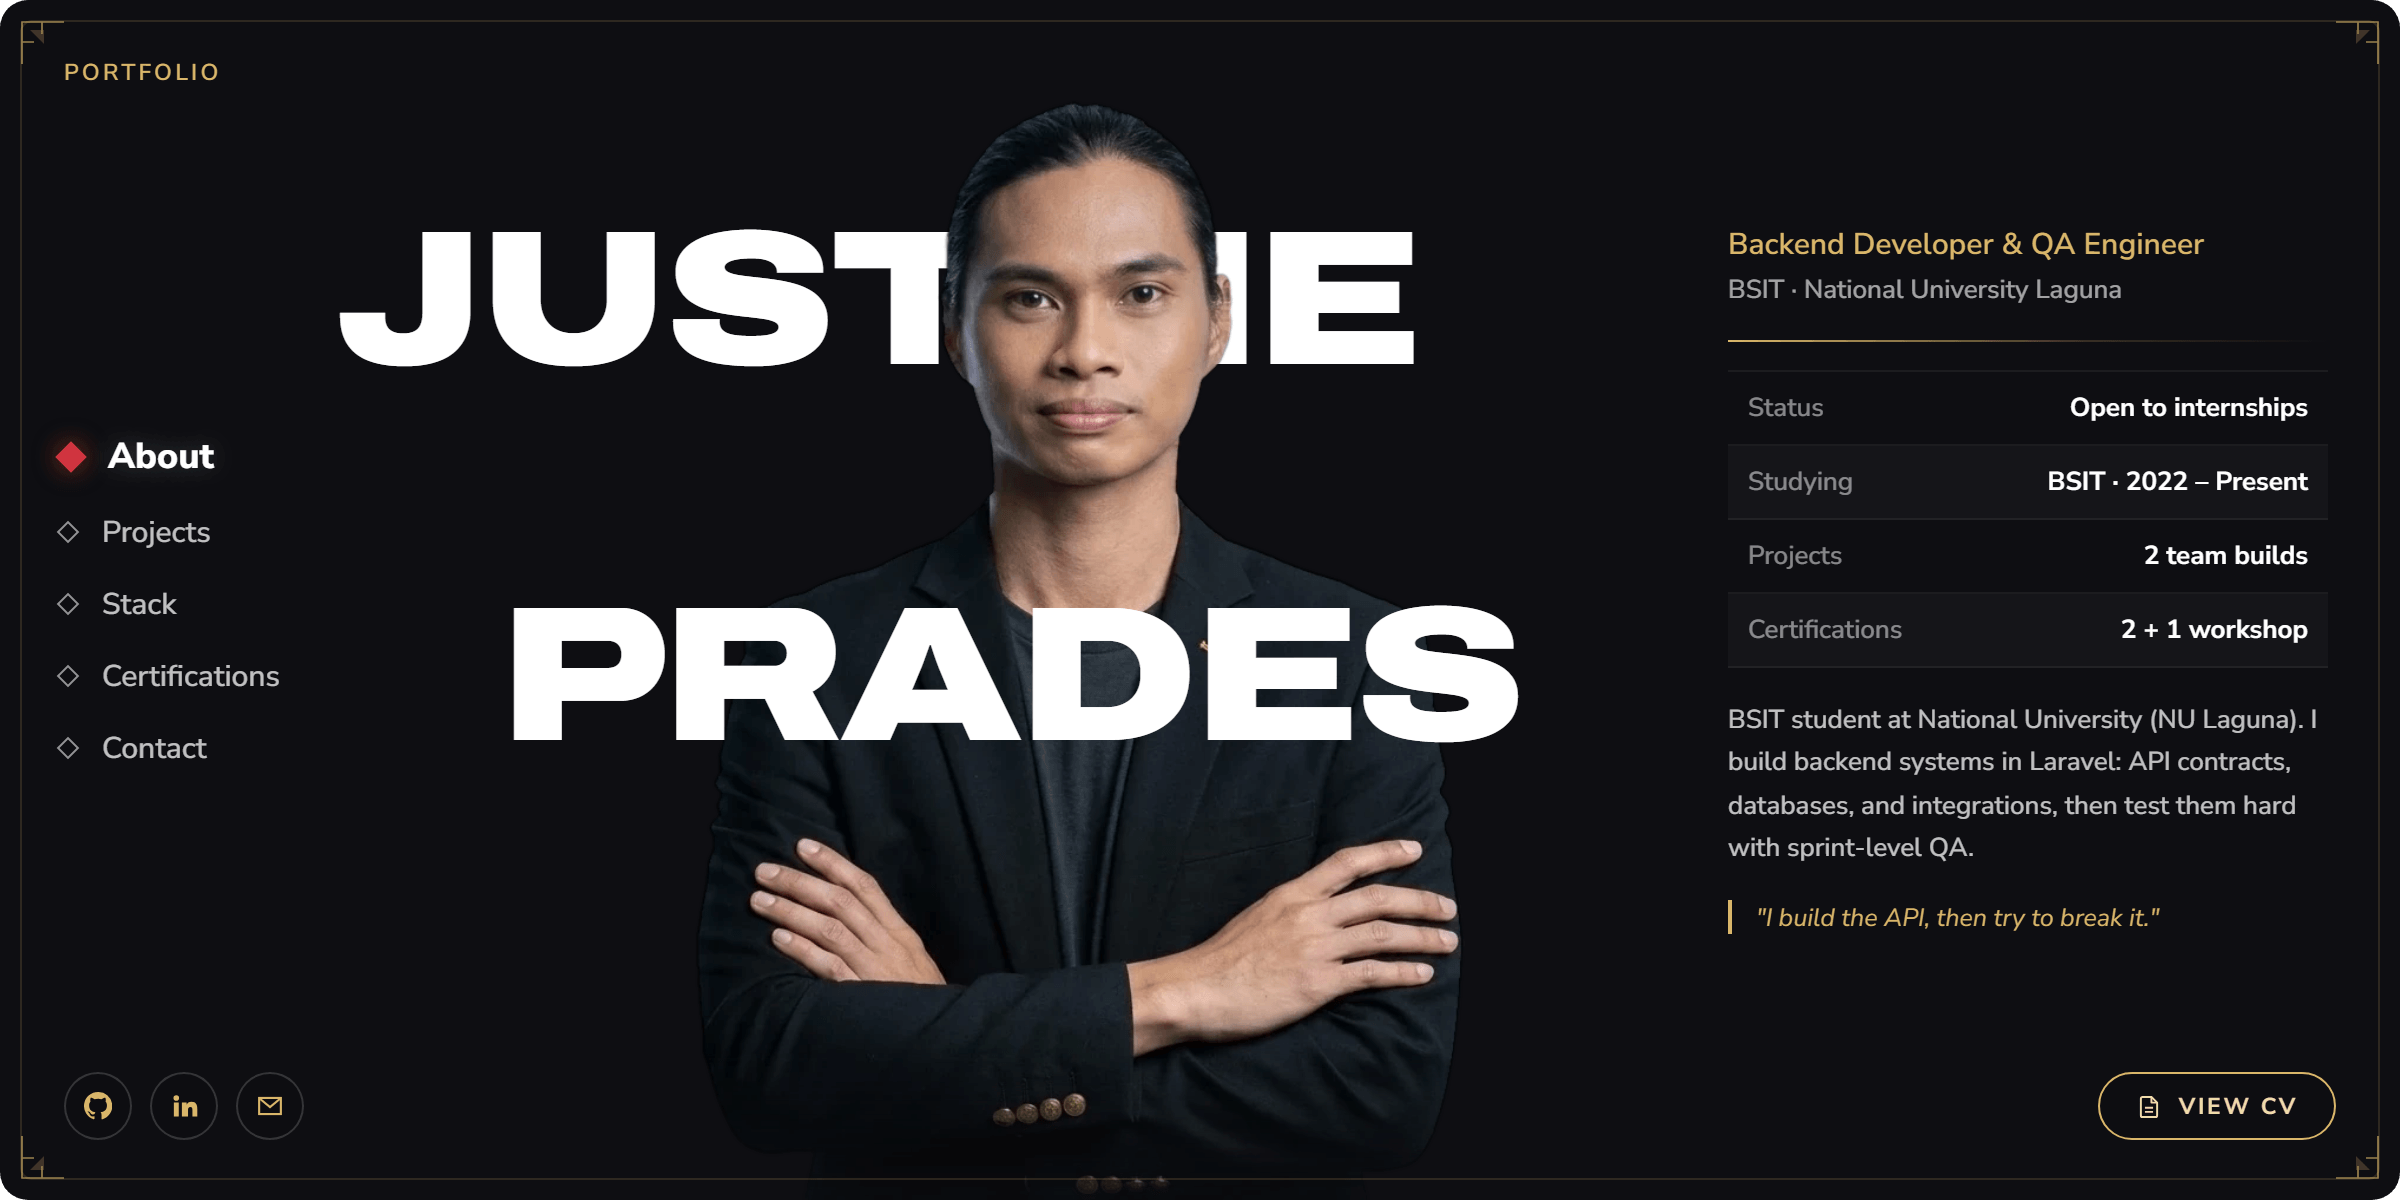
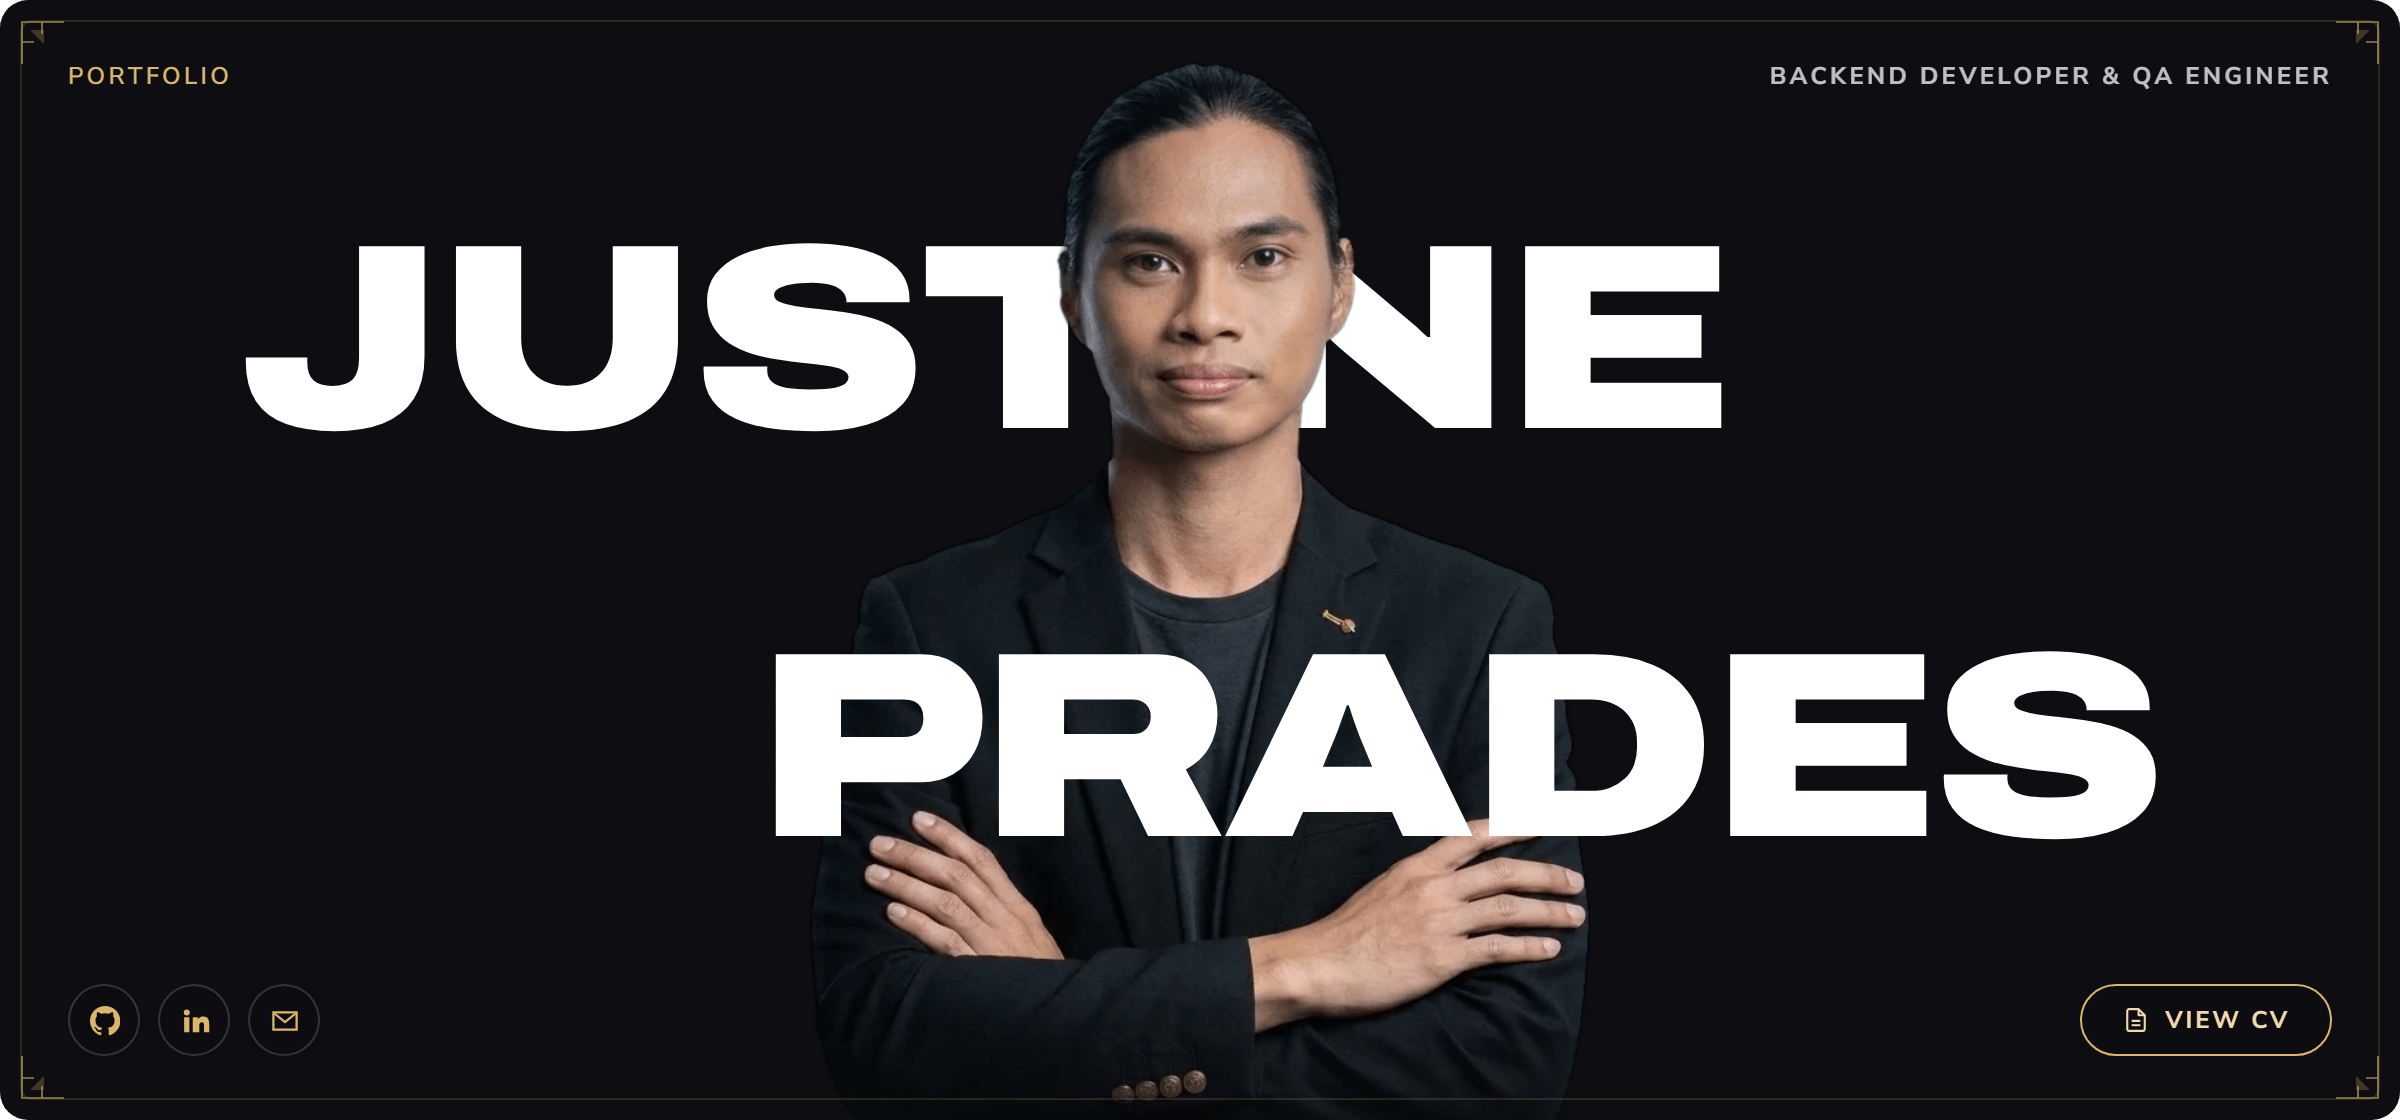
README: clickable top nav bar, About card from the info panel, simpler hero
The nav bar is cut into one image per item, each linking to an anchor above its
card, so About / Projects / Stack / Certifications / Contact scroll within the
README. The hero drops the side menu and info panel; the info is now the About
card. Stack no longer marks Backend with the red diamond.

diff --git a/src/hero.html b/src/hero.html
@@ -2,69 +2,44 @@
 <html lang="en">
 <head>
 <meta charset="utf-8" />
-<link href="https://fonts.googleapis.com/css2?family=Archivo:wdth,wght@125,900&family=Nunito+Sans:ital,wght@0,500;0,600;0,700;0,800;1,400&display=block" rel="stylesheet" />
+<link href="https://fonts.googleapis.com/css2?family=Archivo:wdth,wght@125,900&family=Nunito+Sans:wght@600;700&display=block" rel="stylesheet" />
 <style>
-  /* Mirrors the portfolio's opening screen (CharacterMenu.jsx), dark theme. */
-  :root { --bg: #0e0e12; --fg: #fff; --gold: #d9b66a; --gold-hi: #f0dcab; --accent: #d0353f; --text-2: rgba(255,255,255,.74); --hair: rgba(255,255,255,.06); }
+  /* The portfolio's opening screen without the menu and info panel: those are the nav bar and About card in the README. */
+  :root { --bg: #0e0e12; --fg: #fff; --gold: #d9b66a; --gold-hi: #f0dcab; --text-2: rgba(255,255,255,.74); }
   * { box-sizing: border-box; margin: 0; padding: 0; }
   html, body { background: transparent; }
-  .card { position: relative; width: 1200px; height: 600px; border-radius: 14px; overflow: hidden; background: var(--bg); font-family: "Nunito Sans", sans-serif; color: var(--text-2); }
+  .card { position: relative; width: 1200px; height: 560px; border-radius: 14px; overflow: hidden; background: var(--bg); font-family: "Nunito Sans", sans-serif; color: var(--text-2); }
   .frame { position: absolute; inset: 10px; border: 1px solid rgba(217,182,106,.16); border-radius: 6px; z-index: 6; }
   .corner { position: absolute; width: 40px; height: 40px; color: var(--gold); opacity: .7; }
   .corner svg { width: 100%; height: 100%; display: block; }
   .tl { top: -1px; left: -1px; } .tr { top: -1px; right: -1px; transform: scaleX(-1); }
   .bl { bottom: -1px; left: -1px; transform: scaleY(-1); } .br { bottom: -1px; right: -1px; transform: scale(-1); }
 
-  .brand { position: absolute; top: 28px; left: 32px; z-index: 6; font-size: 11.5px; font-weight: 600; letter-spacing: .14em; color: var(--gold); }
+  .brand { position: absolute; top: 30px; left: 34px; z-index: 6; font-size: 12px; font-weight: 600; letter-spacing: .14em; color: var(--gold); }
+  .role { position: absolute; top: 30px; right: 34px; z-index: 6; font-size: 12px; font-weight: 700; letter-spacing: .14em; text-transform: uppercase; color: var(--text-2); }
 
-  .nav { position: absolute; left: 30px; top: 50%; transform: translateY(-50%); z-index: 6; display: flex; flex-direction: column; gap: 16px; }
-  .nav span { display: flex; align-items: center; gap: 13px; font-size: 15px; font-weight: 500; color: var(--text-2); }
-  .nav i { width: 8px; height: 8px; border: 1.2px solid rgba(255,255,255,.55); transform: rotate(45deg); }
-  .nav .on { font-size: 18px; font-weight: 800; color: var(--fg); text-shadow: 0 0 14px rgba(255,255,255,.25); }
-  .nav .on i { width: 11px; height: 11px; background: var(--accent); border-color: var(--accent); box-shadow: 0 0 12px rgba(208,53,63,.7); }
+  .name { position: absolute; z-index: 1; font-family: "Archivo", sans-serif; font-weight: 900; font-stretch: 125%; font-size: 132px; line-height: .8; letter-spacing: -.02em; color: var(--fg); white-space: nowrap; }
+  .back { left: 120px; top: 118px; }
+  .front { right: 120px; top: 322px; z-index: 3; }
+  .photo { position: absolute; z-index: 2; bottom: -70px; left: 600px; transform: translateX(-50%); height: 600px;
+    -webkit-mask-image: linear-gradient(to bottom, #000 78%, transparent 96%); }
 
-  .name { position: absolute; z-index: 1; font-family: "Archivo", sans-serif; font-weight: 900; font-stretch: 125%; font-size: 96px; line-height: .8; letter-spacing: -.02em; color: var(--fg); white-space: nowrap; }
-  .back { left: 168px; top: 112px; }
-  .front { left: 250px; top: 300px; z-index: 3; }
-  .photo { position: absolute; z-index: 2; bottom: -40px; left: 540px; transform: translateX(-50%); height: 590px;
-    -webkit-mask-image: linear-gradient(to bottom, #000 80%, transparent 97%); }
-
-  .panel { position: absolute; z-index: 6; right: 36px; top: 112px; width: 300px; }
-  .role { font-size: 15px; font-weight: 600; color: var(--gold); }
-  .sub { margin-top: 4px; font-size: 13px; color: rgba(255,255,255,.62); }
-  .divider { height: 1px; margin: 16px 0 14px; background: linear-gradient(90deg, var(--gold), rgba(217,182,106,.2) 60%, transparent); }
-  .stats { border-top: 1px solid var(--hair); }
-  .stat { display: flex; justify-content: space-between; padding: 9px 10px; border-bottom: 1px solid var(--hair); font-size: 13px; }
-  .stat:nth-child(even) { background: rgba(255,255,255,.03); }
-  .stat span { color: rgba(255,255,255,.5); font-weight: 500; }
-  .stat b { color: var(--fg); font-weight: 700; }
-  .desc { margin-top: 16px; font-size: 13px; line-height: 1.65; }
-  .quote { margin-top: 14px; padding-left: 12px; border-left: 2px solid var(--gold); font-style: italic; font-size: 12.5px; color: var(--gold); }
-
-  .socials { position: absolute; z-index: 6; left: 32px; bottom: 30px; display: flex; gap: 9px; }
-  .socials span { width: 34px; height: 34px; border-radius: 50%; border: 1px solid rgba(255,255,255,.16); background: rgba(14,14,18,.8); display: grid; place-items: center; color: var(--gold); }
-  .socials svg { width: 14px; height: 14px; }
-  .cv { position: absolute; z-index: 6; right: 32px; bottom: 30px; display: inline-flex; align-items: center; gap: 8px; padding: 8px 18px; border-radius: 999px; border: 1px solid var(--gold);
-    background: rgba(14,14,18,.8); color: var(--gold-hi); font-size: 11.5px; font-weight: 700; letter-spacing: .12em; }
-  .cv svg { width: 13px; height: 13px; }
+  .socials { position: absolute; z-index: 6; left: 34px; bottom: 32px; display: flex; gap: 9px; }
+  .socials span { width: 36px; height: 36px; border-radius: 50%; border: 1px solid rgba(255,255,255,.16); background: rgba(14,14,18,.8); display: grid; place-items: center; color: var(--gold); }
+  .socials svg { width: 15px; height: 15px; }
+  .cv { position: absolute; z-index: 6; right: 34px; bottom: 32px; display: inline-flex; align-items: center; gap: 8px; padding: 9px 20px; border-radius: 999px; border: 1px solid var(--gold);
+    background: rgba(14,14,18,.8); color: var(--gold-hi); font-size: 12px; font-weight: 700; letter-spacing: .12em; }
+  .cv svg { width: 14px; height: 14px; }
 </style>
 </head>
 <body>
 <div class="card">
   <div class="frame">__CORNERS__</div>
   <div class="brand">PORTFOLIO</div>
-  <div class="nav"><span class="on"><i></i>About</span><span><i></i>Projects</span><span><i></i>Stack</span><span><i></i>Certifications</span><span><i></i>Contact</span></div>
+  <div class="role">Backend Developer &amp; QA Engineer</div>
   <div class="name back">JUSTINE</div>
   <img class="photo" src="__PHOTO__" alt="" />
   <div class="name front">PRADES</div>
-  <div class="panel">
-    <p class="role">Backend Developer &amp; QA Engineer</p>
-    <p class="sub">BSIT · National University Laguna</p>
-    <div class="divider"></div>
-    <div class="stats">__STATS__</div>
-    <p class="desc">__DESC__</p>
-    <p class="quote">"__QUOTE__"</p>
-  </div>
   <div class="socials"><span>__I_GITHUB__</span><span>__I_LINKEDIN__</span><span>__I_MAIL__</span></div>
   <div class="cv">__I_FILE__VIEW CV</div>
 </div>

diff --git a/src/nav.html b/src/nav.html
@@ -1,0 +1,31 @@
+<!doctype html>
+<html lang="en">
+<head>
+<meta charset="utf-8" />
+<link href="https://fonts.googleapis.com/css2?family=Nunito+Sans:wght@600;800&display=block" rel="stylesheet" />
+<style>
+  /* README nav bar. render.mjs cuts it into one image per [data-slice] so each item can link to its own anchor. */
+  * { box-sizing: border-box; margin: 0; padding: 0; }
+  html, body { background: transparent; }
+  .card {
+    position: relative; display: flex; align-items: stretch; width: 1000px; height: 60px;
+    border: 1px solid rgba(217,182,106,.28); border-radius: 12px; background: #0e0e12;
+    font-family: "Nunito Sans", sans-serif;
+  }
+  /* gold rule along the top, fading out like the site's dividers */
+  .card::before { content: ""; position: absolute; left: 14px; right: 40%; top: -1px; height: 1px; background: linear-gradient(90deg, #d9b66a, rgba(217,182,106,.25) 70%, transparent); }
+  [data-slice] { display: flex; align-items: center; white-space: nowrap; }
+  .brand { flex: 1; gap: 11px; padding-left: 24px; font-size: 17px; font-weight: 800; color: #fff; letter-spacing: -.005em; }
+  .brand i { width: 9px; height: 9px; background: #d0353f; transform: rotate(45deg); box-shadow: 0 0 10px rgba(208,53,63,.6); }
+  .item { gap: 9px; padding: 0 15px; font-size: 14px; font-weight: 600; color: rgba(255,255,255,.74); }
+  .item:last-child { padding-right: 24px; }
+  .item i { width: 7px; height: 7px; border: 1.2px solid #d9b66a; transform: rotate(45deg); }
+</style>
+</head>
+<body>
+<div class="card">
+  <div class="brand" data-slice="brand"><i></i>Justine James Prades</div>
+  __ITEMS__
+</div>
+</body>
+</html>

diff --git a/src/card.html b/src/card.html
@@ -44,11 +44,13 @@
   .quote { margin-top: 18px; padding-left: 14px; border-left: 2px solid var(--gold); font-style: italic; color: var(--gold); }
 
   /* about */
-  .about { display: grid; grid-template-columns: 1fr 380px; gap: 44px; align-items: start; }
+  .about { display: grid; grid-template-columns: 1fr 400px; gap: 48px; align-items: center; }
   .about .lead { font-weight: 800; font-size: 25px; line-height: 1.35; letter-spacing: -.01em; color: var(--fg); }
   .about .lead em { font-style: normal; color: var(--gold); }
   .about p.body { margin-top: 16px; }
-  .about .role { font-weight: 700; color: var(--gold); font-size: 16px; }
+  .about .role { font-weight: 700; color: var(--gold); font-size: 18px; }
+  .about .divider { margin: 16px 0 18px; }
+  .about p.body { margin-top: 0; font-size: 15.5px; line-height: 1.7; }
   .about .sub { color: var(--text-3); font-size: 14px; margin-top: 2px; }
 
   /* projects */

diff --git a/README.md b/README.md
@@ -1,5 +1,9 @@
+<!-- nav:start -->
+<p align="center"><a href="https://11senjimuramasa11.github.io/11SenjiMuramasa11/"><img src="assets/nav-brand.png" width="50.1%" alt="Justine James Prades" /></a><a href="#about"><img src="assets/nav-about.png" width="8.55%" alt="About" /></a><a href="#projects"><img src="assets/nav-projects.png" width="9.7%" alt="Projects" /></a><a href="#stack"><img src="assets/nav-stack.png" width="8.1%" alt="Stack" /></a><a href="#certifications"><img src="assets/nav-certifications.png" width="13.05%" alt="Certifications" /></a><a href="#contact"><img src="assets/nav-contact.png" width="10.5%" alt="Contact" /></a></p>
+<!-- nav:end -->
+
 <p align="center">
-  <a href="https://11senjimuramasa11.github.io/11SenjiMuramasa11/"><img src="assets/hero.png" width="100%" alt="Justine James Prades, Backend Developer and QA Engineer, BSIT at National University Laguna. Photo of Justine with arms crossed between the words JUSTINE and PRADES. Status: open to internships. Studying: BSIT, 2022 to present. Projects: 2 team builds. Certifications: 2 plus 1 workshop. Quote: I build the API, then try to break it. Opens my portfolio." /></a>
+  <a href="https://11senjimuramasa11.github.io/11SenjiMuramasa11/"><img src="assets/hero.png" width="100%" alt="Justine James Prades, Backend Developer and QA Engineer. Photo of Justine with arms crossed between the words JUSTINE and PRADES. Opens my portfolio." /></a>
 </p>
 
 <p align="center">
@@ -10,18 +14,27 @@
 </p>
 
 <!-- cards:start -->
+<a id="about"></a>
+<p align="center">
+  <a href="https://11senjimuramasa11.github.io/11SenjiMuramasa11/"><img src="assets/card-about.png" width="100%" alt="About. Backend Developer and QA Engineer, BSIT at National University Laguna. BSIT student at National University (NU Laguna). I build backend systems in Laravel: API contracts, databases, and integrations, then test them hard with sprint-level QA. &quot;I build the API, then try to break it.&quot; Status: Open to internships. Studying: BSIT · 2022 – Present. Projects: 2 team builds. Certifications: 2 + 1 workshop. Opens my portfolio." /></a>
+</p>
+
+<a id="projects"></a>
 <p align="center">
   <a href="https://11senjimuramasa11.github.io/11SenjiMuramasa11/#work"><img src="assets/card-work.png" width="100%" alt="Projects. CPC Nexboard, 2026 · Contributor · Team of three, built with Laravel, PHP, MySQL, WebSockets, Groq AI: Intranet syncing production, inventory, sales and logistics at an active manufacturing company. Laravel + MySQL backend, live updates over WebSockets, department permissions, and dashboards. Groq AI assistant for demand forecasting. Rated 4.12 / 5.00 by the company's staff and IT specialists. TrustHome PH, 2026 · Contributor · Frontend & QA, built with React, Vite, Firebase, Jest / QA: Rental marketplace capstone: document-audited listings, conflict-free booking, and fairness scoring for bank property catalogs. Built the settings, trust-evaluation and verification screens. Led QA across five sprints: test plans, regression suites, and UAT. Opens the projects section of my portfolio." /></a>
 </p>
 
+<a id="stack"></a>
 <p align="center">
   <a href="https://11senjimuramasa11.github.io/11SenjiMuramasa11/#stack"><img src="assets/card-stack.png" width="100%" alt="Stack. Backend: PHP, Laravel, Node.js, Express. Quality Assurance & Tools: Git, GitHub Actions, Test Planning, Test Cases & UAT, PHPUnit, ESLint. Data & Cloud: MySQL, SQLite, Firebase, AWS. Integration & Protocols: REST APIs, WebSockets, EDI (ANSI X12), OAuth 2.0. Frontend: HTML5, CSS3, JavaScript, TypeScript, React, Vite. Opens the stack section of my portfolio." /></a>
 </p>
 
+<a id="certifications"></a>
 <p align="center">
   <a href="https://11senjimuramasa11.github.io/11SenjiMuramasa11/#certifications"><img src="assets/card-certifications.png" width="100%" alt="Certifications. IT Specialist: Network Security, Certiport · Pearson VUE, May 2026: Demonstrates foundational knowledge in network security, defense-in-depth, security policies, and mitigation techniques. Salesforce Agentblazer Workshop, Salesforce Trailhead, August 2025: Autonomous AI agent development, Trailhead prompt design, and enterprise workflow automation workshop. IT Specialist: Databases, Certiport · Pearson VUE, March 2025: Covers relational database fundamentals, normalization, queries, stored procedures, data integrity, and ACID properties. Opens the certifications section of my portfolio, where each certificate opens its PDF." /></a>
 </p>
 
+<a id="contact"></a>
 <p align="center">
   <a href="https://11senjimuramasa11.github.io/11SenjiMuramasa11/#contact"><img src="assets/card-contact.png" width="100%" alt="Contact. Let's connect. Open to software engineering internships, collaborative builds, and QA testing roles. Direct Email: justinejamesprades1111@gmail.com. LinkedIn Network: in/jjprades. GitHub Repositories: @11SenjiMuramasa11. Opens the contact section of my portfolio." /></a>
 </p>
